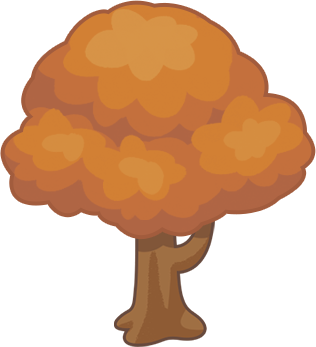
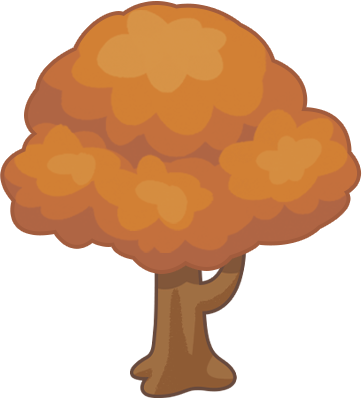
fix images

diff --git a/src/modules/assets/terrain.ts b/src/modules/assets/terrain.ts
@@ -68,7 +68,7 @@ export const assetTerrainMap: Record<TerrainId, AssetTerrainData> = {
                 texture: {
                     assetKey: "terrain-maple-tree",
                     assetUrl: `${PREFIX}/maple-tree/maple-tree.png`,
-                    version: 3,
+                    version: 4,
                     extraOffsets: {
                         x: 0,
                         y: -150,
@@ -90,7 +90,7 @@ export const assetTerrainMap: Record<TerrainId, AssetTerrainData> = {
                 texture: {
                     assetKey: "terrain-oak-tree",
                     assetUrl: `${PREFIX}/oak-tree/oak-tree.png`,
-                    version: 3,
+                    version: 4,
                     extraOffsets: {
                         x: 0,
                         y: -150,
@@ -112,7 +112,7 @@ export const assetTerrainMap: Record<TerrainId, AssetTerrainData> = {
                 texture: {
                     assetKey: "terrain-pine-tree",
                     assetUrl: `${PREFIX}/pine-tree/pine-tree.png`,
-                    version: 1,
+                    version: 2,
                     extraOffsets: {
                         x: 0,
                         y: -150,
